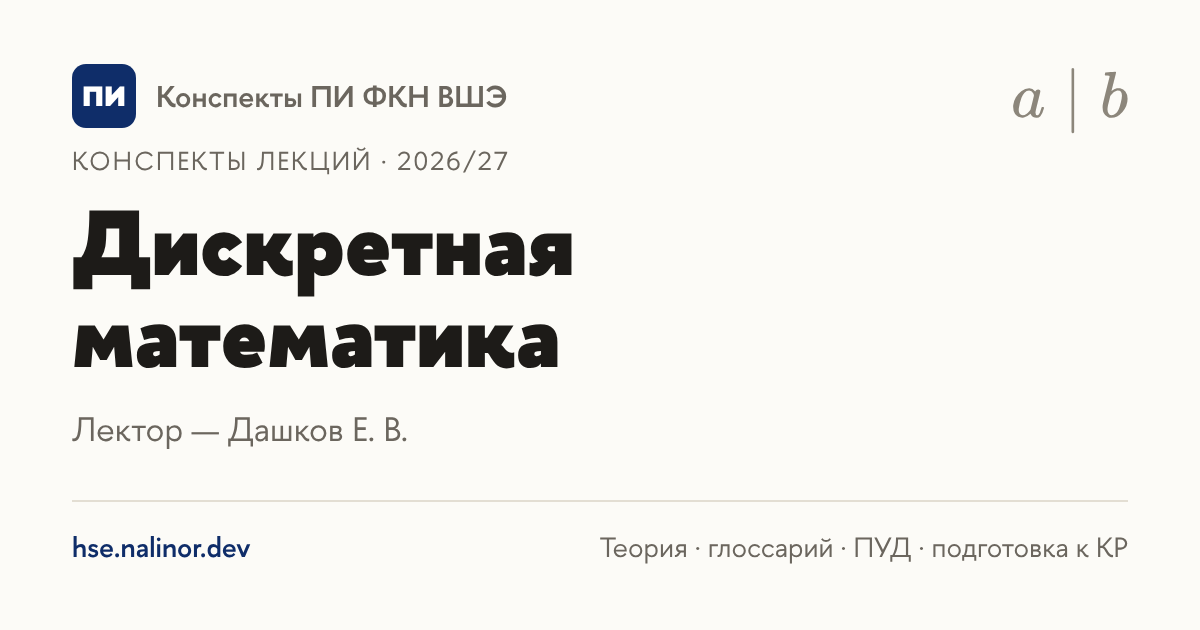
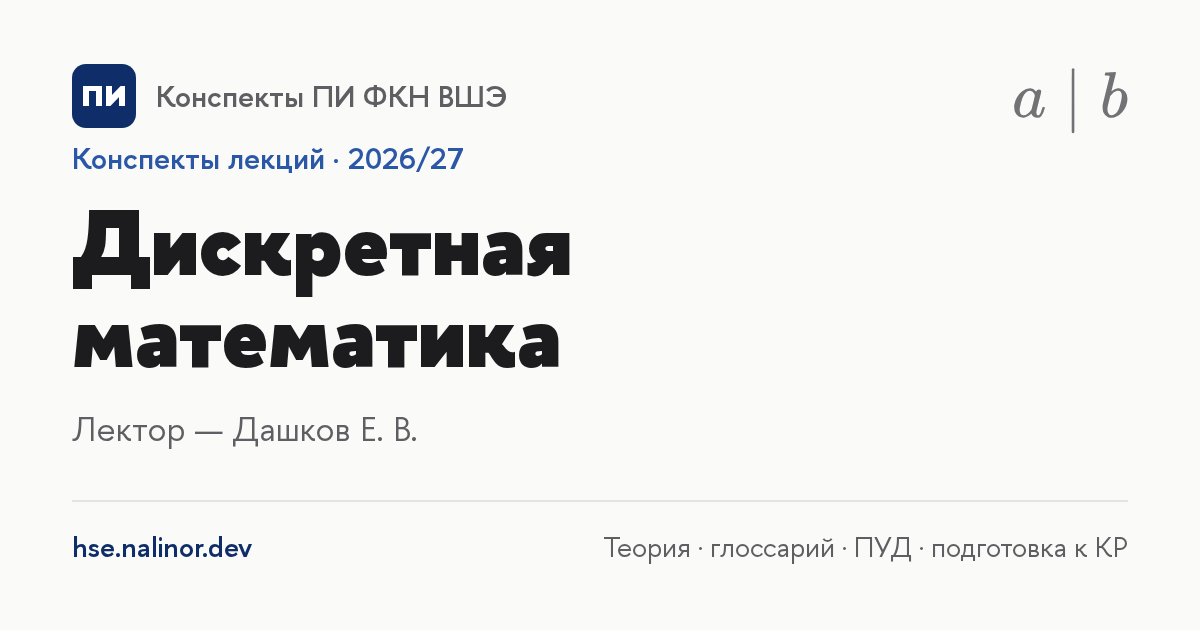
Redraw the link preview images in the new palette
Paper, ink and greys from «quiet paper»; the kicker is a blue sentence-case
line like the site's meta lines, not tracked caps.

Claude-Session: https://claude.ai/code/session_012GQdQSQsYyv8HMTEieYXgv

diff --git a/web/scripts/og-images.ts b/web/scripts/og-images.ts
@@ -31,21 +31,21 @@ ${fontFaces}
 * { box-sizing: border-box; margin: 0; }
 body {
   width: ${String(OG_IMAGE_SIZE.width)}px; height: ${String(OG_IMAGE_SIZE.height)}px;
-  background: #fcfbf7; color: #1d1b18; font-family: "HSE Sans", sans-serif;
+  background: #fafaf8; color: #1c1c1e; font-family: "HSE Sans", sans-serif;
   padding: 64px 72px; display: flex; flex-direction: column; position: relative;
 }
-.brand { display: flex; align-items: center; gap: 20px; font-size: 30px; font-weight: 600; color: #6b665e; }
+.brand { display: flex; align-items: center; gap: 20px; font-size: 30px; font-weight: 600; color: #5f5f63; }
 .logo {
   width: 64px; height: 64px; border-radius: 14px; background: #0f2d69; color: #fff;
   display: grid; place-items: center; font-size: 28px; font-weight: 900;
 }
-.symbol { position: absolute; top: 58px; right: 72px; color: #8c867b; }
-.kicker { margin-top: auto; font-size: 26px; letter-spacing: 0.08em; text-transform: uppercase; color: #6b665e; }
+.symbol { position: absolute; top: 58px; right: 72px; color: #727276; }
+.kicker { margin-top: auto; font-size: 30px; font-weight: 600; color: #2a58a6; }
 h1 { margin-top: 18px; max-width: 900px; line-height: 1; font-weight: 900; }
-.note { margin-top: 26px; font-size: 34px; color: #6b665e; }
+.note { margin-top: 26px; font-size: 34px; color: #5f5f63; }
 footer {
-  margin-top: 48px; padding-top: 26px; border-top: 2px solid #e3ded3;
-  display: flex; justify-content: space-between; font-size: 28px; color: #6b665e;
+  margin-top: 48px; padding-top: 26px; border-top: 2px solid #e4e4e1;
+  display: flex; justify-content: space-between; font-size: 28px; color: #5f5f63;
 }
 footer b { color: #0f2d69; font-weight: 600; }
 `;
